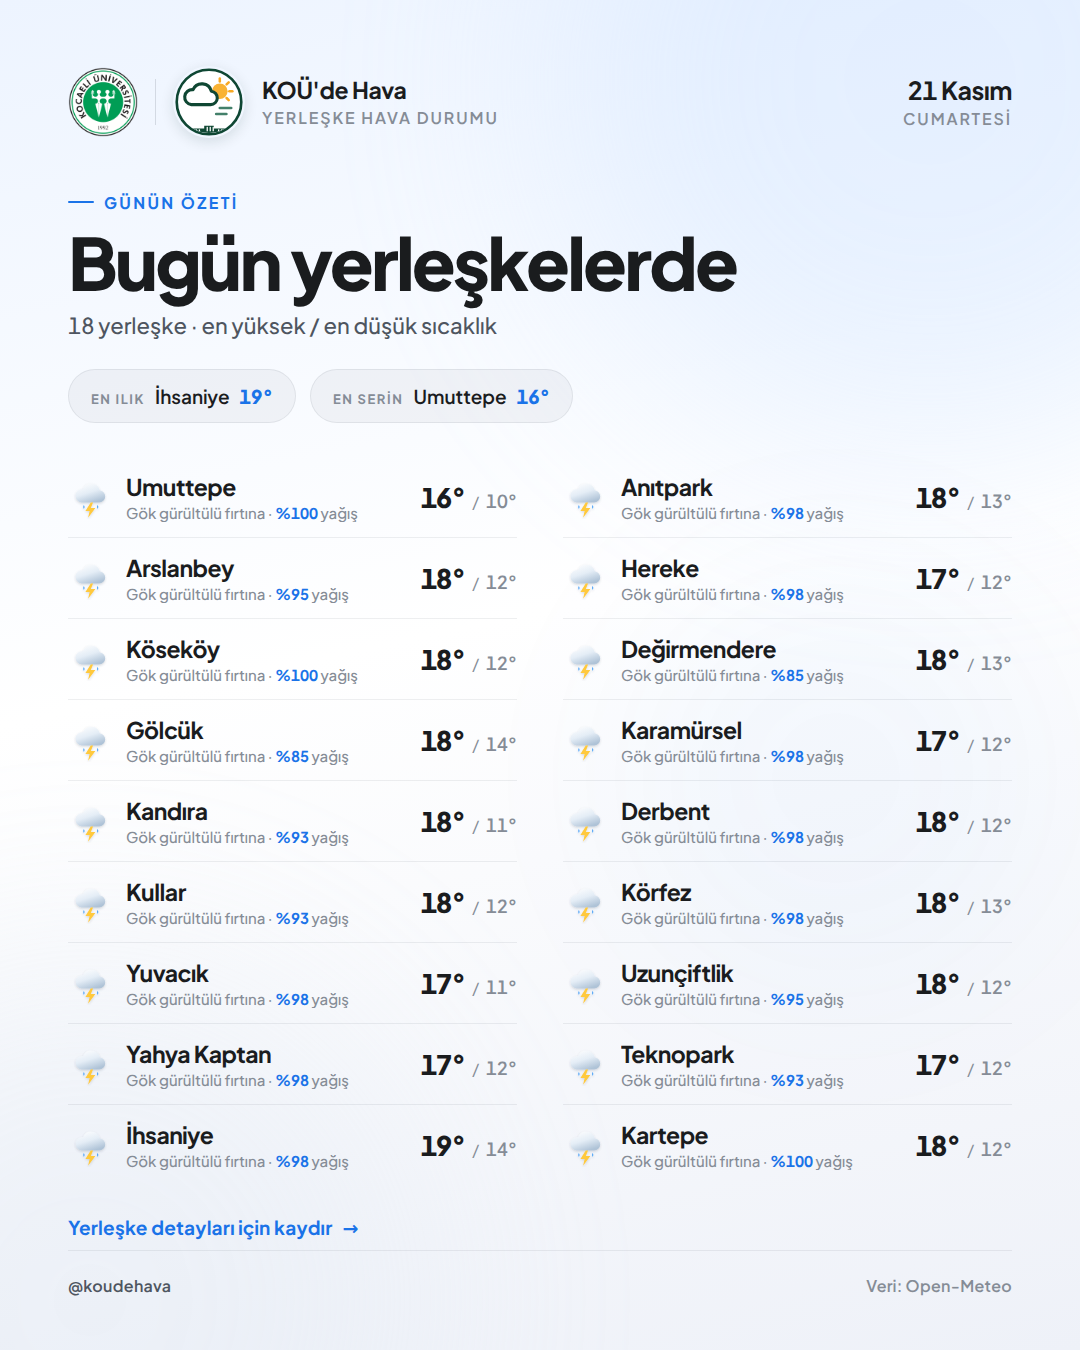
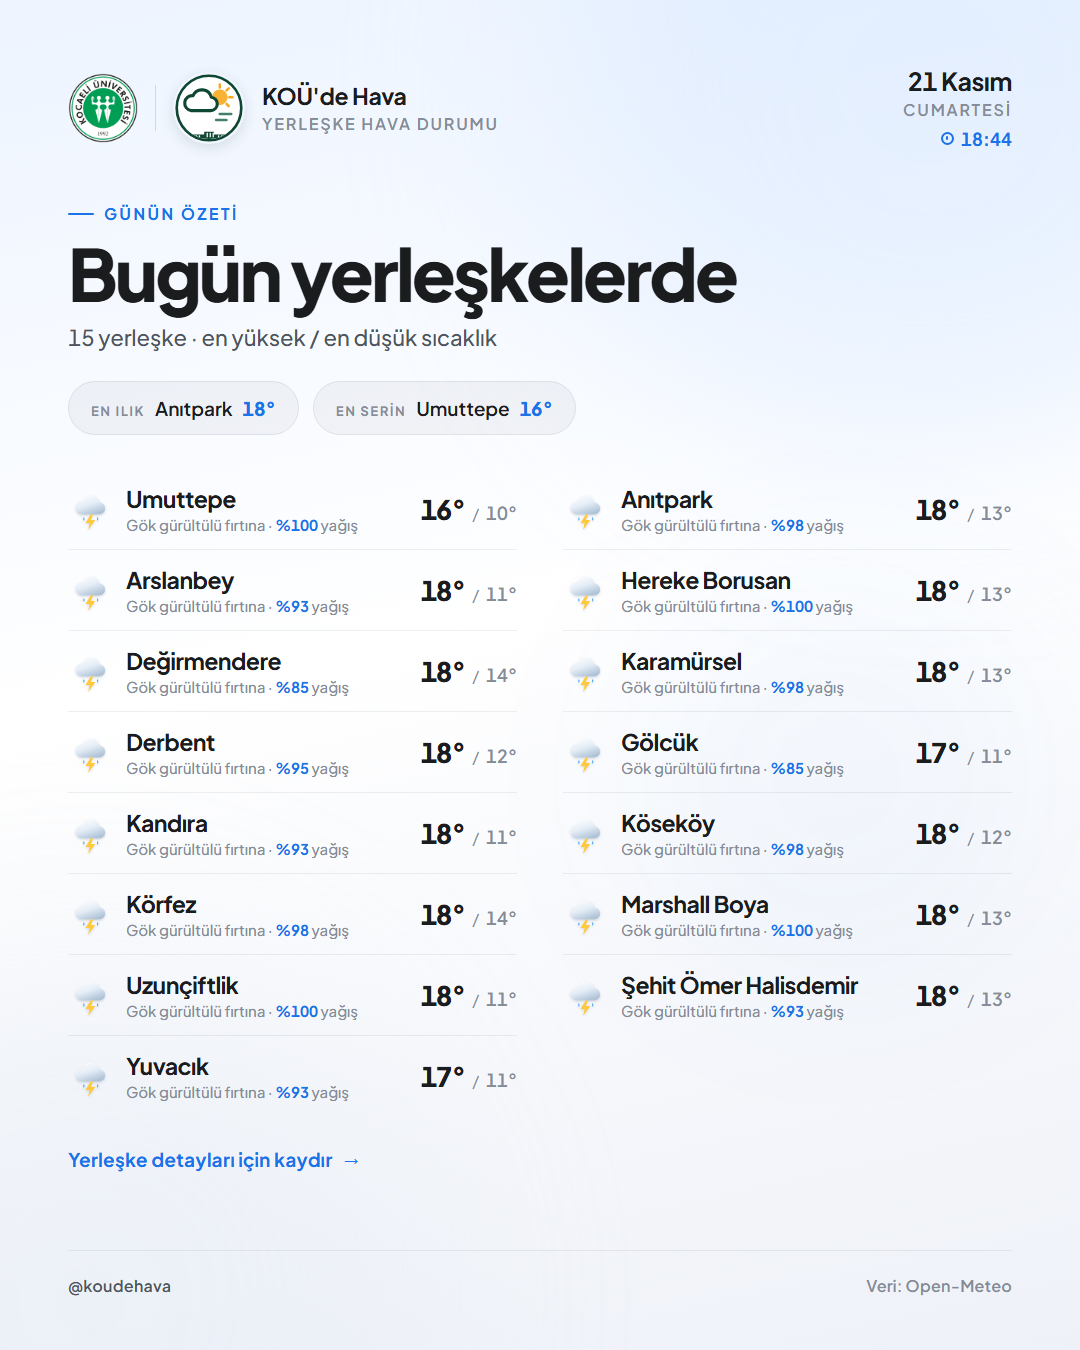
Yerleşkeleri resmî listeye göre güncelle, slaytlara saat ekle
Yerleşke listesi ve koordinatlar üniversitenin resmî tanıtım
sayfasından alındı (tanitim.kocaeli.edu.tr/sayfalar/yerleskeler-5fe):
18 yaklaşık konum yerine 15 resmî yerleşke ve haritadan alınan
koordinatlar. Arslanbey'in konumu ~5 km kaymıştı, düzeldi.
Alt başlıklar artık yerleşkedeki birimleri gösteriyor.

Slaytlarda tarihin altına paylaşım saati (saat:dakika) eklendi.

diff --git a/src/templates/base.html b/src/templates/base.html
@@ -170,6 +170,35 @@
     letter-spacing: 1.9px;
     margin-top: 4px;
   }
+  .datechip .d3 {
+    margin-top: 9px;
+    display: inline-flex;
+    align-items: center;
+    gap: 7px;
+    font-size: 18px;
+    font-weight: 700;
+    letter-spacing: 0.2px;
+    color: var(--accent);
+  }
+  .datechip .d3 .clock {
+    width: 13px;
+    height: 13px;
+    border-radius: 50%;
+    border: 2px solid currentColor;
+    position: relative;
+    flex: 0 0 auto;
+  }
+  .datechip .d3 .clock::after {
+    content: "";
+    position: absolute;
+    left: 50%;
+    top: 1.5px;
+    width: 2px;
+    height: 4px;
+    background: currentColor;
+    transform: translateX(-50%);
+    border-radius: 1px;
+  }
 
   /* ---------- alt bar ---------- */
   .footer {
@@ -220,6 +249,7 @@
       <div class="datechip">
         <div class="d1">{{ date_long }}</div>
         <div class="d2">{{ weekday }}</div>
+        {% if time_hm %}<div class="d3"><span class="clock"></span>{{ time_hm }}</div>{% endif %}
       </div>
     </div>
 

diff --git a/src/render.py b/src/render.py
@@ -5,6 +5,7 @@ from __future__ import annotations
 import base64
 import datetime as dt
 from pathlib import Path
+from zoneinfo import ZoneInfo
 
 from jinja2 import Environment, FileSystemLoader, select_autoescape
 from playwright.sync_api import sync_playwright
@@ -97,10 +98,12 @@ def _env(mode: str = "dark") -> Environment:
     return env
 
 
-def _date_context(day: dt.date) -> dict:
+def _date_context(day: dt.date, moment: dt.datetime | None = None) -> dict:
     return {
         "date_long": f"{day.day} {TR_MONTHS[day.month - 1]}",
         "weekday": TR_DAYS[day.weekday()],
+        # Gorselin uretildigi, yani paylasimin yapildigi saat
+        "time_hm": moment.strftime("%H:%M") if moment else "",
     }
 
 
@@ -109,6 +112,7 @@ def build_html(campuses: list[CampusWeather], day: dt.date, config: dict) -> lis
     mode = config.get("theme", "light")
     env = _env(mode)
     account = config.get("account", {})
+    moment = dt.datetime.now(ZoneInfo(config.get("timezone", "Europe/Istanbul")))
     carousel_cfg = config.get("carousel", {})
     max_slides = int(carousel_cfg.get("max_slides", 10))
     include_summary = bool(carousel_cfg.get("include_summary_slide", True))
@@ -122,7 +126,7 @@ def build_html(campuses: list[CampusWeather], day: dt.date, config: dict) -> lis
         "handle": account.get("handle", ""),
         "kou_logo": find_kou_logo(),
         "brand_logo": brand_logo_markup(),
-        **_date_context(day),
+        **_date_context(day, moment),
     }
 
     pages: list[tuple[str, str]] = []

diff --git a/README.md b/README.md
@@ -1,6 +1,6 @@
 # KOÜ Yerleşke Hava Durumu → Instagram
 
-Kocaeli Üniversitesi'nin 18 yerleşkesinin hava durumunu her sabah otomatik olarak
+Kocaeli Üniversitesi'nin 15 yerleşkesinin hava durumunu her sabah otomatik olarak
 Instagram'da **carousel** gönderi olarak paylaşan otomasyon.
 
 - **Veri:** [Open-Meteo](https://open-meteo.com) (ücretsiz, API anahtarı gerektirmez)
@@ -14,7 +14,7 @@ Instagram'da **carousel** gönderi olarak paylaşan otomasyon.
 ## Nasıl çalışıyor
 
 ```
-Open-Meteo (tek istek, 18 konum)
+Open-Meteo (tek istek, 15 konum)
         ↓
 HTML şablon → Playwright → 10 adet PNG
    • 00-ozet.png        tüm yerleşkelerin özeti
@@ -29,7 +29,7 @@ Instagram görselleri **kendi sunucularından çeker**, bu yüzden dosyaların p
 URL'de olması zorunludur. Ekstra bir servise (Cloudinary vb.) üye olmamak için
 görseller repoya yazılıp `raw.githubusercontent.com` üzerinden sunuluyor.
 
-> **Not:** Instagram carousel en fazla **10 slayt** kabul eder. 18 yerleşkenin
+> **Not:** Instagram carousel en fazla **10 slayt** kabul eder. 15 yerleşkenin
 > hepsi 1. slayttaki özet tablosunda yer alır; hangi 9 yerleşkenin kendi
 > slaytını alacağı `config/campuses.json` içindeki `"carousel": true` ile belirlenir.
 
@@ -286,3 +286,6 @@ Maps'te sağ tık → koordinatı kopyala ile `lat`/`lon` değerlerini güncelle
 - `output/` klasörü her gün büyür. İstersen workflow'a eski klasörleri silen bir
   adım ekleyebilirsin; görseller ayrıca 14 gün artifact olarak da saklanıyor.
 - Instagram API sürümü `GRAPH_VERSION` ile değiştirilebilir (varsayılan `v26.0`).
+
+> Yerleşke listesi ve koordinatlar üniversitenin resmî sayfasından alındı:
+> <https://tanitim.kocaeli.edu.tr/sayfalar/yerleskeler-5fe>
